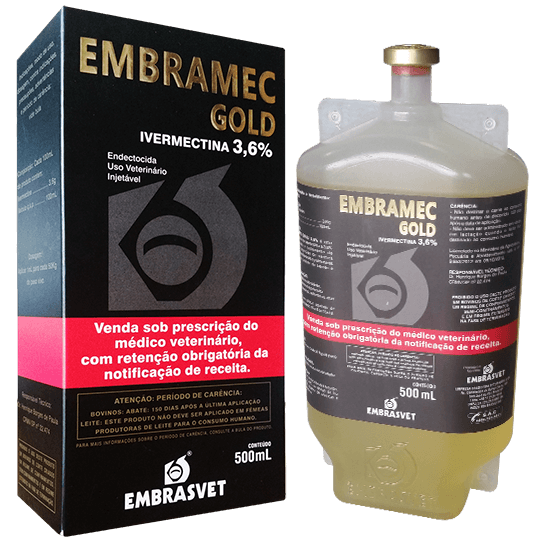
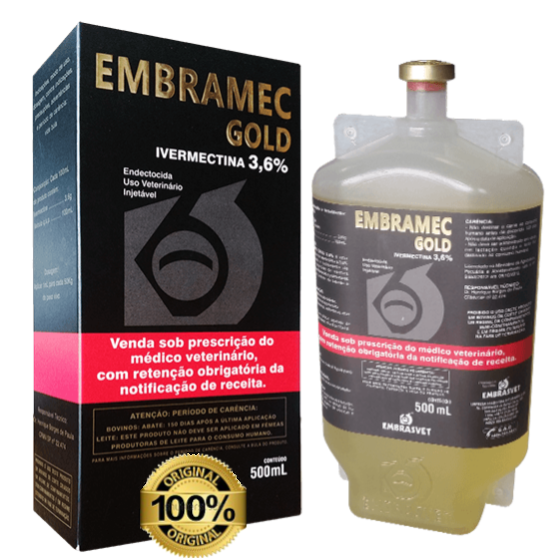
100 original

diff --git a/index.html b/index.html
@@ -146,6 +146,6 @@
 
 
     </script>
-    <img style="position: absolute; top: 10px; right: 10px; border: 0;" src="images/100-original.jpg" alt="Produto 100% original">
+    <!--<img style="position: absolute; top: 10px; right: 10px; border: 0;" src="images/100-original.jpg" alt="Produto 100% original">-->
 </body>
 </html>
